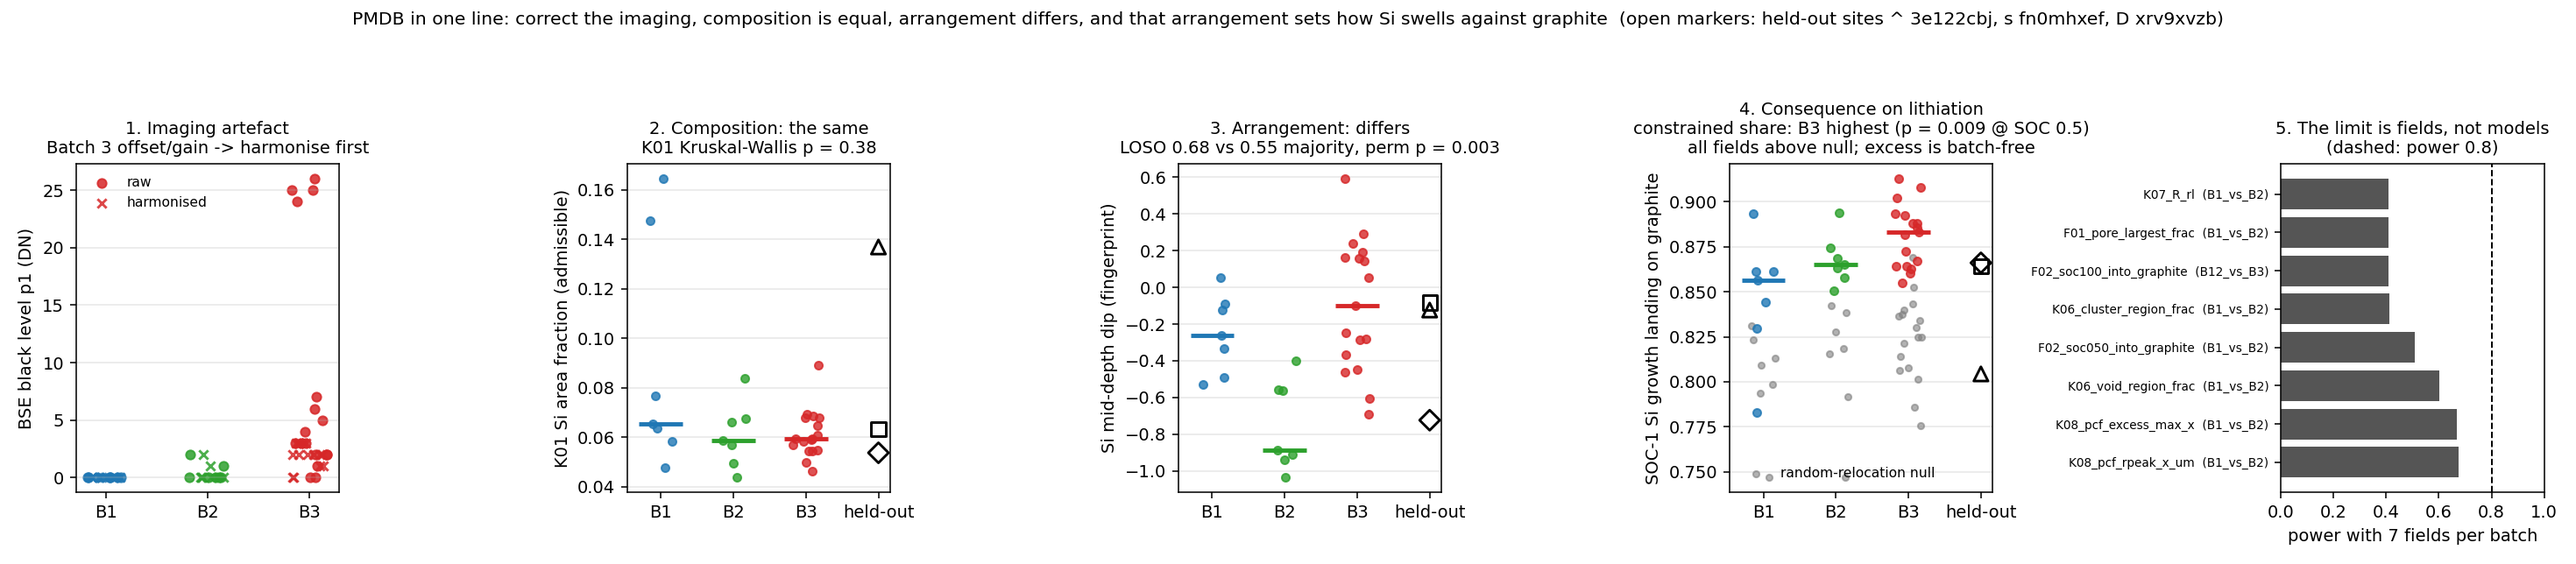
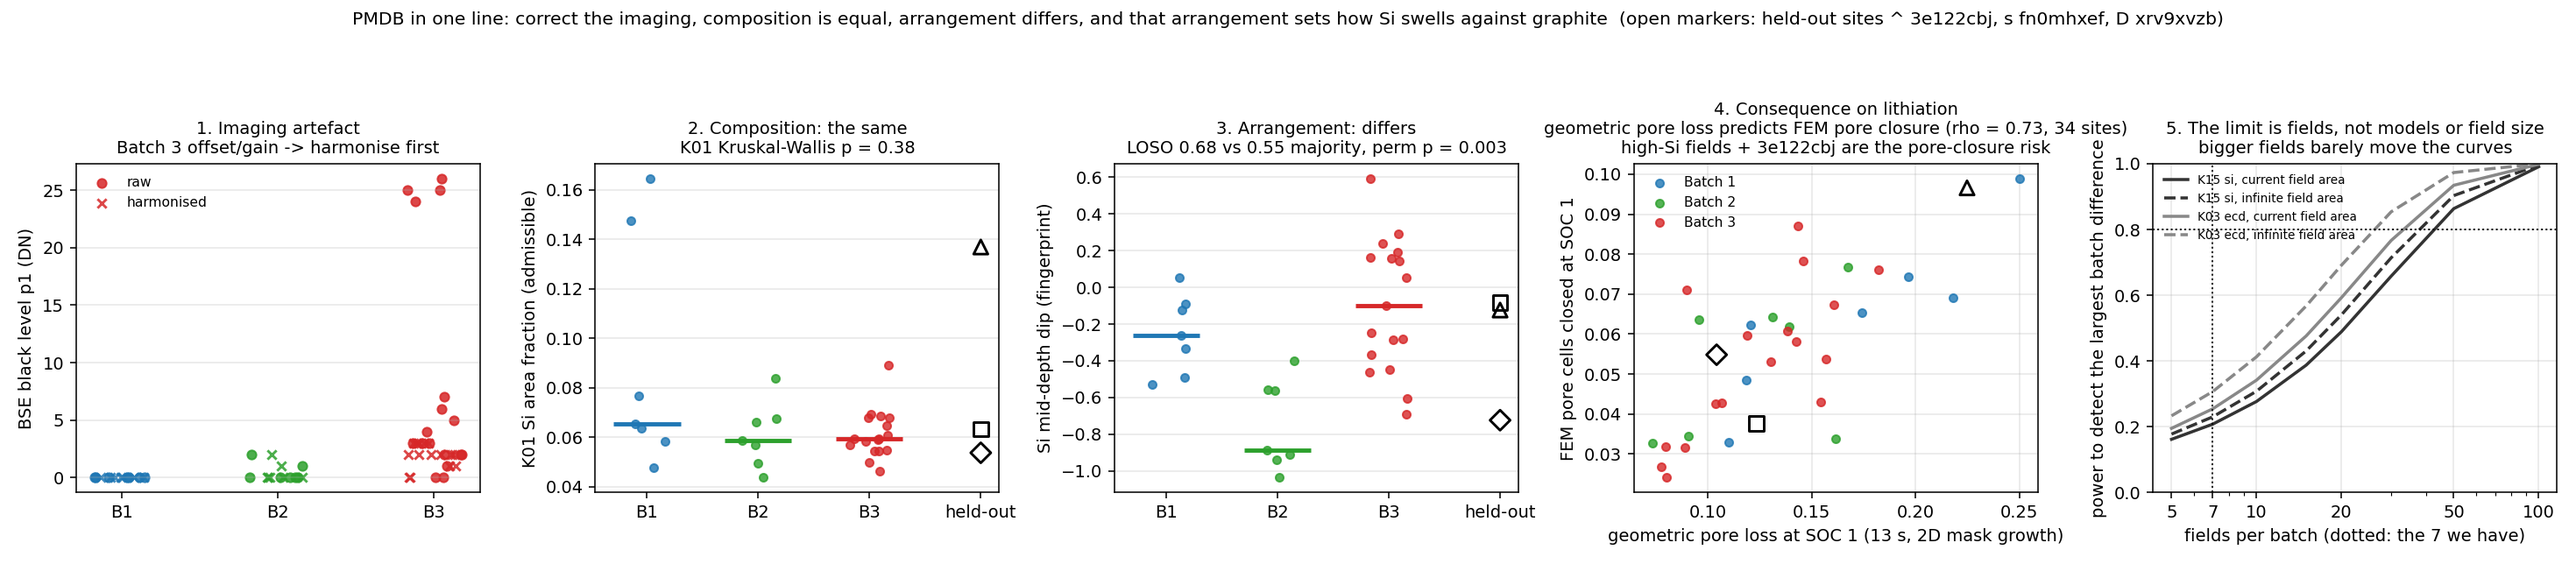
Story: fold reliability/segmenter/deviation results into docs/story.md; story figure panels 4-5 now pore loss vs FEM and fields-vs-area

diff --git a/scripts/story_figure.py b/scripts/story_figure.py
@@ -48,9 +48,6 @@ def main() -> int:
     kh = pd.read_csv(O / "heldout" / "kpis" / "site_kpis.csv")
     fp = pd.read_csv(O / "fingerprint" / "features.csv")
     fh = pd.read_csv(O / "fingerprint" / "heldout_features.csv")
-    fu = pd.read_csv(O / "functional" / "site_functional.csv")
-    fuh = pd.read_csv(O / "functional" / "heldout_site_functional.csv")
-    nl = pd.read_csv(O / "functional" / "null_relocation.csv")
 
     fig, axes = plt.subplots(1, 5, figsize=(21, 4.6))
     ax = axes[0]
@@ -74,23 +71,36 @@ def main() -> int:
     axes[2].set_title("3. Arrangement: differs\nLOSO 0.68 vs 0.55 majority, perm p = 0.003", fontsize=10)
 
     ax = axes[3]
-    strip(ax, fu, "F02_soc100_into_graphite", fuh, "SOC-1 Si growth landing on graphite")
-    for i, b in enumerate(BATCHES):
-        y = nl.loc[nl.batch == b, "null_mean_into_graphite"].to_numpy()
-        ax.scatter(i + rng.uniform(-0.18, 0.18, y.size), y, s=14, color="grey", alpha=0.6, zorder=2,
-                   label="random-relocation null" if i == 0 else None)
-    ax.legend(frameon=False, fontsize=8, loc="lower left")
-    ax.set_title("4. Consequence on lithiation\nconstrained share: B3 highest (p = 0.009 @ SOC 0.5)\nall fields above null; excess is batch-free", fontsize=10)
+    gv = pd.read_csv(O / "crosswalk" / "geometric_vs_fem.csv")
+    for b in BATCHES:
+        g = gv[gv.batch == b]
+        ax.scatter(g["F02_soc100_pore_loss"], g["pore_closed_frac"], s=22, color=COL[b], alpha=0.8, zorder=3, label=b.replace("_", " "))
+    for site, mk in HELD.items():
+        g = gv[gv.site == site]
+        if len(g):
+            ax.scatter(g["F02_soc100_pore_loss"], g["pore_closed_frac"], marker=mk, s=70, facecolor="none", edgecolor="k", lw=1.5, zorder=5)
+    ax.set_xlabel("geometric pore loss at SOC 1 (13 s, 2D mask growth)")
+    ax.set_ylabel("FEM pore cells closed at SOC 1")
+    ax.legend(frameon=False, fontsize=8, loc="upper left")
+    ax.grid(alpha=0.3)
+    ax.set_title("4. Consequence on lithiation\ngeometric pore loss predicts FEM pore closure (rho = 0.73, 34 sites)\nhigh-Si fields + 3e122cbj are the pore-closure risk", fontsize=10)
 
     ax = axes[4]
-    pw = pd.read_csv(O / "functional" / "power.csv")
-    pw = pw.sort_values("power_n7", ascending=False).drop_duplicates("column").head(8)
-    ax.barh(pw["column"].str.slice(0, 24) + "  (" + pw["contrast"].astype(str) + ")", pw["power_n7"], color="#555")
-    ax.axvline(0.8, color="k", ls="--", lw=1)
-    ax.set_xlabel("power with 7 fields per batch")
-    ax.set_title("5. The limit is fields, not models\n(dashed: power 0.8)", fontsize=10)
-    ax.tick_params(axis="y", labelsize=7)
-    ax.set_xlim(0, 1)
+    pg = pd.read_csv(O / "reliability" / "power_area_grid.csv")
+    for kpi, c in (("K15_si_graphite_contact_frac", "#333"), ("K03_ecd_d50_um", "#888")):
+        for k, ls, lab in ((1.0, "-", "current field area"), (1e9, "--", "infinite field area")):
+            g = pg[(pg.kpi == kpi) & (pg.area_factor == k)].sort_values("n_per_group")
+            ax.plot(g.n_per_group, g.power, ls=ls, color=c, lw=1.8, label=f"{kpi.split('_')[0]} {kpi.split('_')[1]}, {lab}")
+    ax.axhline(0.8, color="k", ls=":", lw=1)
+    ax.axvline(7, color="k", ls=":", lw=1)
+    ax.set_xscale("log")
+    ax.set_xticks([5, 7, 10, 20, 50, 100], ["5", "7", "10", "20", "50", "100"])
+    ax.set_xlabel("fields per batch (dotted: the 7 we have)")
+    ax.set_ylabel("power to detect the largest batch difference")
+    ax.set_ylim(0, 1)
+    ax.legend(frameon=False, fontsize=7, loc="upper left")
+    ax.grid(alpha=0.3)
+    ax.set_title("5. The limit is fields, not models or field size\nbigger fields barely move the curves", fontsize=10)
 
     fig.suptitle("PMDB in one line: correct the imaging, composition is equal, arrangement differs, and that arrangement sets "
                  "how Si swells against graphite  (open markers: held-out sites ^ 3e122cbj, s fn0mhxef, D xrv9xvzb)", fontsize=10.5)

diff --git a/docs/story.md b/docs/story.md
@@ -68,11 +68,24 @@ The missing layer was function: given where the Si sits, what happens when it li
 pore phase does not percolate in any 2D section (0 / 31, 3–5 % porosity), so tortuosity is not
 measurable from a slice and is recorded as such rather than reported. What is measurable is the
 swelling budget: grown to its lithiated area, 77–88 % of Si growth lands on graphite, 5–6 % on
-pore. The constrained share is the one functional quantity that differs by batch (B1 < B2 < B3,
-p = 0.009) and it is the lithiation reading of the K15 contact fraction that the fingerprint
-already uses; pore loss (13–25 %) is a function of Si fraction alone, so the high-Si Batch 1
-fields are the pore-closure risk. These columns do not improve batch identification (LOSO 0.71
-vs 0.68, same permutation p); they explain what the identified difference would do.
+pore. Two readings come out of it, with different standing:
+
+- **Pore loss (13–25 %) is robust.** It is a function of Si fraction alone, it reproduces under an
+  independently written segmenter (ρ 0.97, `docs/reliability.md` §3), and it predicts the FEM's
+  pore closure across 34 sites (ρ 0.73; 0.49 after removing Si fraction, `docs/crosswalk.md` §2).
+  Split by depth it follows the fingerprint's depth profile — Batch 2's mid-depth Si depletion is a
+  mid-depth pore-loss minimum (p = 0.003), Batch 3 is flat, Batch 1 bottom-heavy — so the
+  arrangement difference *is* a depth profile of pore-closure risk. The high-Si Batch 1 fields (and
+  held-out 3e122cbj) are the pore-closure risk.
+- **The constrained share is segmenter-dependent.** Under `pmdb.segment` v0r1 it differs by batch
+  (B1 < B2 < B3, p = 0.009) and would be the lithiation reading of K15; under the second segmenter
+  the difference vanishes (p 0.73). It is not the grey-level artefact (harmonised BSE gives the same
+  masks) — it is v0r1's graphite-vs-binder split, a morphological residue rather than a measured
+  phase. Until a binder class is validated it is an observation about one segmentation, not about the
+  electrode.
+
+Neither column improves batch identification (LOSO 0.71 vs 0.68, same permutation p); they
+explain what the identified difference would do.
 
 ## 7. From geometry to mechanics (`docs/fem/literature-review.md`, `analytical_benchmarks/`)
 The FEM review sets out the plane-strain finite-strain lithiation model (eigenstrain, neo-Hookean,
@@ -85,17 +98,27 @@ The chain is consistent — artefacts removed, composition equal, arrangement di
 difference material rather than textural, its functional consequence identified — but every link
 runs on 7 fields per batch. A plug-in power analysis (`outputs/functional/power.csv`) says the
 strongest KPI effects need ≈ 10–15 fields per batch for 80 % power and most need more than 50;
-with the current sample the power to confirm even the largest effect is ≈ 0.6. The two things
-that would move the project most are therefore not models: (i) more Batch 1 and Batch 2 fields,
-and (ii) the Batch 3 microscope session logs (or one Batch 3 sample re-imaged under Batch 1/2
-settings) to close the noise/sharpness question. On the held-back sites the fingerprint assigns
-3e122cbj → Batch 1 (robust under jackknife), fn0mhxef → Batch 3 and xrv9xvzb → Batch 2
-(`outputs/fingerprint/heldout_predictions.csv`, `outputs/overnight/stability/`); the functional
-columns agree on the first and are too weak to vote on the other two — but they do say *why*
-3e122cbj is not Batch 3: twice the Si of any baseline field, crowded (H0 lifetimes a third of
-Batch 3), swelling past the graphite into free space, the functional twin of the two high-Si
-Batch 1 fields; the other two sit inside the Batch 3 range on every functional column
-(`docs/functional.md` §2.5).
+with the current sample the power to confirm even the largest effect is ≈ 0.6. Splitting the
+variance into sampling and field components (`docs/reliability.md` §4) adds the direction: for every
+KPI with a real field-level signal, sampling noise is only 12–22 % of the field variance, so **bigger
+fields do not buy power — only more fields do** (K15 needs ≈ 50 per batch even at infinite area).
+The three things that would move the project most are therefore not models: (i) more Batch 1 and
+Batch 2 fields, (ii) the Batch 3 microscope session logs (or one Batch 3 sample re-imaged under
+Batch 1/2 settings) to close the noise/sharpness question, and (iii) a validated binder / carbon
+class (Inlens topography or a labelled patch set) to decide whether the constrained-swelling
+difference is real.
+
+On the held-back sites every method agrees on two of three (`docs/crosswalk.md` §1): 3e122cbj → Batch 1
+(unanimous, and the only field outside the Batch 3 baseline — off on 8 KPIs beyond its own sampling
+noise: twice the Si, denser, closer-packed, less graphite contact; `docs/acceptance.md` §5),
+fn0mhxef → Batch 3 (6 of 7). xrv9xvzb splits along the story's own fault line: methods that read depth
+arrangement (fingerprint, RF arms with FEM curves) say Batch 2 and its depth-resolved pore loss shows
+the Batch 2 mid-depth dip; scalar composition/geometry methods say Batch 3, and on every resolvable
+KPI it sits inside the Batch 3 cloud — as do fn0mhxef and, apart from the two high-Si fields, most
+Batch 1 and Batch 2 fields: at KPI level an off-baseline field deviates from Batch 3 on as many
+columns (median 1) as a Batch 3 field does from the rest of Batch 3. The per-field "why" has to come
+from arrangement, and should be presented as such.
+
 The functional layer inherits the first link of the chain directly: the segmenter is anchored on
 each image's own p1/p50/p99, so the Batch 3 affine artefact does not reach it — segmenting the
 hybrid-harmonised BSE instead of the raw one gives Si masks with IoU ≥ 0.992 on the four
@@ -133,6 +156,10 @@ swelling QC sheets for all 31 labelled fields: `outputs/functional/figures/swell
 | Representation learning, classification, attribution | `devin/1791038010-v2-representation` | `outputs/v2/RESULTS.md`, `src/v2/` |
 | FEM lithiation model review | `fem-lit-review`, `fem-sim` | `docs/fem/literature-review.md` |
 | Functional morphology | this session | `pmdb/functional.py`, `docs/functional.md`, `outputs/functional/` |
+| Cross-session crosswalk, depth swelling | this session | `docs/crosswalk.md`, `outputs/crosswalk/`, `outputs/functional/depth_swelling.csv` |
+| Reliability: ICC, sectioning, second segmenter, fields vs area | this session | `docs/reliability.md`, `outputs/{reliability,sectioning,segagree}/` |
+| Acceptance vs Batch 3, per-field deviation table | this session | `docs/acceptance.md`, `outputs/acceptance/` |
+| FEM production, two-stage RF classifier, pitch clips | main (fem-sim, classifier, status sessions) | `outputs/fem/`, `docs/fem/results.md`, `docs/classifier/`, `outputs/clips/` |
 
 **Addendum (pretrained spine on the swelling targets, `docs/spine.md`).** Asked whether a frozen vision
 backbone (as in v2) is the right model for the lithiation geometry: no. The constrained share is read off
